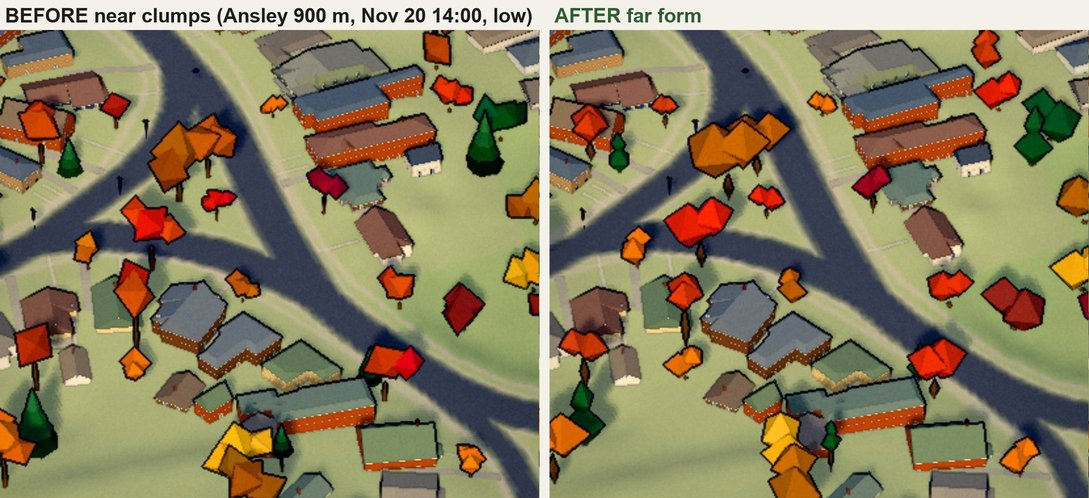
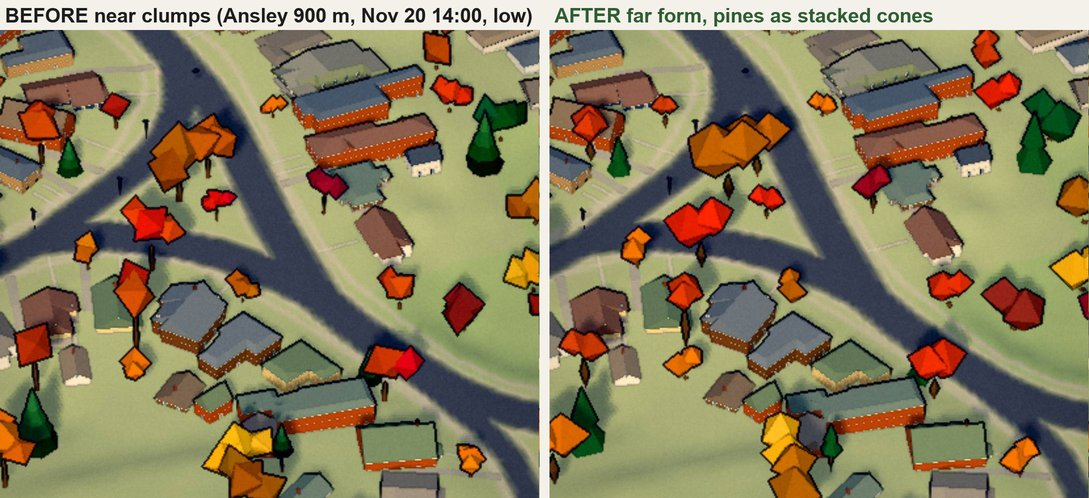
Far form: pines as two stacked cones, so their pointed tiers still read at distance
A second instanced draw per area on the same leaf material (no new program). Low default
567 calls / 2,094,848 triangles (main 580 / 2,327,132).

diff --git a/web/src/trees/far-canopy.ts b/web/src/trees/far-canopy.ts
@@ -1,5 +1,6 @@
 /**
- * The generic tree's far form: two faceted octahedron clumps (or pine tiers) and a trunk per tree, drawn as a
+ * The generic tree's far form: two faceted octahedron clumps and a trunk per broadleaf, and two
+ * stacked cones per pine (the one silhouette that reads from a distance), as two instanced meshes, drawn as a
  * single instanced mesh per area on the generic leaf material (no new shader program). City
  * swaps it in for the near clumps past the low tier's far-tree orbit (city.ts FAR_TREES_M), and
  * the streaming mid ring uses the same core for areas it holds as forest.
@@ -14,8 +15,12 @@ import { leafState } from '../vignette/time';
 /** A World tree: trunk base, size scale s, colour seed c (pine < 0.18, magnolia < 0.26), trunk height. */
 export interface FarTree { x: number; y: number; z: number; s: number; c: number; th?: number }
 
-/** Instances per tree at most: two crown clumps (or pine tiers) and a trunk. */
+/** Octahedron instances per tree at most: two crown clumps and a trunk. */
 export const FAR_PER_TREE = 3;
+/** Cone instances per pine: two stacked tiers. */
+export const FAR_PINE_TIERS = 2;
+/** The far pine's cone (base at the origin, unit radius): for ConeGeometry(1, FAR_CONE_H, 5). */
+export const FAR_CONE_H = 1;
 
 const linear = (v: number) => (v <= 0.04045 ? v / 12.92 : Math.pow((v + 0.055) / 1.055, 2.4));
 /** '#rrggbb' to linear RGB, as THREE.Color.set does in the working colour space. */
@@ -52,6 +57,8 @@ export function farCrown(t: FarTree, doy: number): { colour: [number, number, nu
 }
 
 export interface FarInstances { matrices: Float32Array; colors: Float32Array; count: number }
+/** Octahedron clumps and trunks, and the pines' cones. */
+export interface FarCanopy extends FarInstances { pines: FarInstances }
 
 function put(o: FarInstances, x: number, y: number, z: number, sx: number, sy: number, sz: number, yaw: number, c: readonly number[]) {
   const m = o.count * 16, cs = Math.cos(yaw), sn = Math.sin(yaw);
@@ -62,26 +69,30 @@ function put(o: FarInstances, x: number, y: number, z: number, sx: number, sy: n
 
 /**
  * Far instances for trees on a day of the year, into `out` when given (sized for
- * FAR_PER_TREE per tree). Crowns first, then trunks; bare crowns are skipped, so `count`
- * is exactly what draws.
+ * FAR_PER_TREE octahedra and FAR_PINE_TIERS cones per tree). Clumps first, then trunks; bare
+ * crowns are skipped, so each `count` is exactly what draws.
  */
-export function farCanopyInstances(trees: readonly FarTree[], doy: number, out?: FarInstances): FarInstances {
-  const o = out ?? { matrices: new Float32Array(trees.length * FAR_PER_TREE * 16), colors: new Float32Array(trees.length * FAR_PER_TREE * 3), count: 0 };
+export function farCanopyInstances(trees: readonly FarTree[], doy: number, out?: FarCanopy): FarCanopy {
+  const n = trees.length;
+  const o = out ?? { matrices: new Float32Array(n * FAR_PER_TREE * 16), colors: new Float32Array(n * FAR_PER_TREE * 3), count: 0,
+    pines: { matrices: new Float32Array(n * FAR_PINE_TIERS * 16), colors: new Float32Array(n * FAR_PINE_TIERS * 3), count: 0 } };
   o.count = 0;
+  o.pines.count = 0;
   for (const t of trees) {
     const trunkH = t.th ?? 2 + t.s * 0.6;
     const { colour, leaves, kind } = farCrown(t, doy);
     const yaw = t.c * 40;
-    const cs = Math.cos(yaw), sn = Math.sin(yaw);
-    // Offsets turn with the tree, so neighbours never repeat one silhouette.
-    const at = (dx: number, dz: number) => [t.x + cs * dx + sn * dz, t.z - sn * dx + cs * dz] as const;
     if (kind === 'pine') {
-      // The stacked tiers' outline: a broad lower tier and a narrower top, about 5 s above the trunk.
-      put(o, t.x, t.y + trunkH + 1.5 * t.s, t.z, 1.4 * t.s, 1.8 * t.s, 1.4 * t.s, yaw, colour);
-      put(o, t.x, t.y + trunkH + 3.7 * t.s, t.z, 0.85 * t.s, 1.6 * t.s, 0.85 * t.s, yaw + 0.6, lighter(colour, 1.12));
+      // The near form's four tiers as two pointed cones: a broad lower one from the trunk top,
+      // a narrower one over it, topping out near the near tiers' 4.9 s.
+      put(o.pines, t.x, t.y + trunkH, t.z, 1.5 * t.s, 2.6 * t.s, 1.5 * t.s, yaw, colour);
+      put(o.pines, t.x, t.y + trunkH + 1.9 * t.s, t.z, 0.95 * t.s, 3.0 * t.s, 0.95 * t.s, yaw + 0.6, lighter(colour, 1.12));
       continue;
     }
     if (leaves < 0.05) continue;
+    const cs = Math.cos(yaw), sn = Math.sin(yaw);
+    // Offsets turn with the tree, so neighbours never repeat one silhouette.
+    const at = (dx: number, dz: number) => [t.x + cs * dx + sn * dz, t.z - sn * dx + cs * dz] as const;
     // Two clumps inside the near crown's outline (about 1.2 R across), shrinking as leaves drop:
     // a larger shaded one low and a smaller sunlit one high and across from it.
     const R = 2.3 * t.s, k = 0.45 + 0.55 * leaves, cy = t.y + trunkH + R * 0.85 - (1 - leaves) * R * 0.3;

diff --git a/web/src/vignette/world.ts b/web/src/vignette/world.ts
@@ -9,7 +9,7 @@ import { appendWoodruffWall, woodruffLot } from './woodruff-shopfronts';
 import { appendParkingDeck } from './parking-deck';
 import { Builder, hashStr, Line, pointInRing, rng, segDist, type P2 } from './geom';
 import { leafState } from './time';
-import { FAR_PER_TREE, farCanopyInstances, type FarInstances } from '../trees/far-canopy';
+import { FAR_CONE_H, FAR_PER_TREE, FAR_PINE_TIERS, farCanopyInstances, type FarCanopy } from '../trees/far-canopy';
 import { PlacementIndex } from './spatial';
 import { SIDING_GLSL } from '../materials/siding';
 
@@ -1136,16 +1136,29 @@ export class World {
       this.far.name = 'far trees';
       this.far.castShadow = this.far.receiveShadow = true;
       this.far.visible = false;
-      this.farOut = { matrices: this.far.instanceMatrix.array as Float32Array, colors: this.far.instanceColor.array as Float32Array, count: 0 };
-      fit(this.far, boundsOf(this.trees.map((_, i) => i)));
-      this.group.add(this.far);
+      // Pines keep their pointed tiers: a second draw, of five-sided cones on the same material.
+      this.farPines = new THREE.InstancedMesh(new THREE.ConeGeometry(1, FAR_CONE_H, 5).translate(0, FAR_CONE_H / 2, 0), leafMat, n * FAR_PINE_TIERS);
+      this.farPines.instanceColor = new THREE.InstancedBufferAttribute(new Float32Array(n * FAR_PINE_TIERS * 3), 3);
+      this.farPines.name = 'far pines';
+      this.farOut = {
+        matrices: this.far.instanceMatrix.array as Float32Array, colors: this.far.instanceColor.array as Float32Array, count: 0,
+        pines: { matrices: this.farPines.instanceMatrix.array as Float32Array, colors: this.farPines.instanceColor.array as Float32Array, count: 0 },
+      };
+      const all = boundsOf(this.trees.map((_, i) => i));
+      for (const im of [this.far, this.farPines]) {
+        im.castShadow = im.receiveShadow = true;
+        im.visible = false;
+        fit(im, all);
+        this.group.add(im);
+      }
     }
   }
 
   /** The generic trees' near meshes, one set per cell (one cell without WorldOptions.treeCellM). */
   private cells: TreeCell[] = [];
   private far?: THREE.InstancedMesh;
-  private farOut?: FarInstances;
+  private farPines?: THREE.InstancedMesh;
+  private farOut?: FarCanopy;
   private detail = { farTrees: false, branchShadows: true };
   /**
    * Level-of-detail hook for the generic trees (phone performance). `farTrees` hides the
@@ -1160,6 +1173,7 @@ export class World {
     // Far form: the whole near tree (clumps, pine tiers, trunk) gives way to one draw.
     const farForm = !!this.far && this.detail.farTrees;
     if (this.far) this.far.visible = farForm;
+    if (this.farPines) this.farPines.visible = farForm && this.farPines.count > 0;
     for (const cell of this.cells) {
       cell.branches.visible = cell.branchesShow && !this.detail.farTrees;
       cell.branches.castShadow = this.detail.branchShadows;
@@ -1269,9 +1283,14 @@ export class World {
     }
     this.applyBranchVisibility();
     if (this.far && this.farOut) {
-      this.far.count = farCanopyInstances(this.trees, doy, this.farOut).count;
-      this.far.instanceMatrix.needsUpdate = true;
-      this.far.instanceColor!.needsUpdate = true;
+      farCanopyInstances(this.trees, doy, this.farOut);
+      this.far.count = this.farOut.count;
+      this.farPines!.count = this.farOut.pines.count;
+      for (const im of [this.far, this.farPines!]) {
+        im.instanceMatrix.needsUpdate = true;
+        im.instanceColor!.needsUpdate = true;
+      }
+      this.applyBranchVisibility();
     }
   }
 

diff --git a/web/src/trees/far-canopy.test.ts b/web/src/trees/far-canopy.test.ts
@@ -1,6 +1,6 @@
 import * as THREE from 'three';
 import { describe, expect, it } from 'vitest';
-import { FAR_PER_TREE, farCanopyInstances, farCrown } from './far-canopy';
+import { farCanopyInstances, farCrown } from './far-canopy';
 import { World } from '../vignette/world';
 
 const pine = { x: 0, y: 0, z: 0, s: 1, c: 0.1 };
@@ -8,10 +8,24 @@ const magnolia = { x: 10, y: 0, z: 0, s: 1, c: 0.2 };
 const oak = { x: 20, y: 2, z: 5, s: 1.5, c: 0.5, th: 4 };
 
 describe('far canopy', () => {
-  it('draws two crown pieces and a trunk per tree in leaf, and only the trunk when bare', () => {
-    expect(farCanopyInstances([pine, magnolia, oak], 180).count).toBe(3 * FAR_PER_TREE);
+  it('draws two clumps and a trunk per broadleaf, two cones per pine, and only the trunk when bare', () => {
+    const summer = farCanopyInstances([pine, magnolia, oak], 180);
+    // Clumps for the magnolia and the oak, and a trunk for each tree; the pine's two tiers are cones.
+    expect(summer.count).toBe(2 + 2 + 3);
+    expect(summer.pines.count).toBe(2);
     // 15 January: the oak is bare, the evergreens are not.
-    expect(farCanopyInstances([pine, magnolia, oak], 15).count).toBe(3 * FAR_PER_TREE - 2);
+    const winter = farCanopyInstances([pine, magnolia, oak], 15);
+    expect(winter.count).toBe(2 + 3);
+    expect(winter.pines.count).toBe(2);
+  });
+
+  it('stacks a pine\'s cones from its trunk top, the upper one narrower', () => {
+    const { pines } = farCanopyInstances([pine], 180);
+    const at = (i: number) => new THREE.Matrix4().fromArray(pines.matrices, i * 16);
+    const [lo, hi] = [at(0), at(1)].map(m => ({ p: new THREE.Vector3().setFromMatrixPosition(m), s: new THREE.Vector3().setFromMatrixScale(m) }));
+    expect(lo.p.y).toBeCloseTo(2 + 0.6);
+    expect(hi.p.y).toBeGreaterThan(lo.p.y);
+    expect(hi.s.x).toBeLessThan(lo.s.x);
   });
 
   it('reuses a buffer and writes plain transferable arrays', () => {
@@ -47,9 +61,9 @@ describe('World far form', () => {
 
   it('leaves the near trees exactly as they were', () => {
     const [off, on] = [build(false), build(true)];
-    const near = (w: World) => meshes(w).filter(m => m.name !== 'far trees').map(m => [m.count, [...m.instanceMatrix.array.slice(0, m.count * 16)], m.instanceColor ? [...m.instanceColor.array.slice(0, m.count * 3)] : null]);
+    const near = (w: World) => meshes(w).filter(m => !m.name.startsWith('far ')).map(m => [m.count, [...m.instanceMatrix.array.slice(0, m.count * 16)], m.instanceColor ? [...m.instanceColor.array.slice(0, m.count * 3)] : null]);
     expect(near(on)).toEqual(near(off));
-    expect(meshes(off).some(m => m.name === 'far trees')).toBe(false);
+    expect(meshes(off).some(m => m.name.startsWith('far '))).toBe(false);
   });
 
   it('swaps the near meshes for one far draw under farTrees, and back', () => {
@@ -57,7 +71,10 @@ describe('World far form', () => {
     const far = meshes(w).find(m => m.name === 'far trees')!;
     expect(far.visible).toBe(false);
     w.setDetail({ farTrees: true });
-    expect(meshes(w).filter(m => m.visible).map(m => m.name)).toEqual(['far trees']);
+    // Only far meshes draw (the pine cones too, when the area has pines).
+    const drawn = meshes(w).filter(m => m.visible).map(m => m.name);
+    expect(drawn).toContain('far trees');
+    expect(drawn.every(n => n.startsWith('far '))).toBe(true);
     w.setDetail({ farTrees: false });
     expect(far.visible).toBe(false);
     expect(meshes(w).filter(m => m.visible).length).toBeGreaterThan(1);
